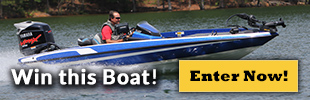
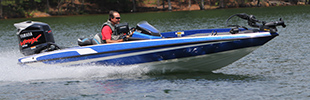
updates to like widget

Changed region(s): [[0.5516, 0.54, 0.9871, 0.96], [0.0, 0.63, 0.5226, 0.93]]

diff --git a/wp-content/plugins/imo-facebook-like-import/css/styles.css b/wp-content/plugins/imo-facebook-like-import/css/styles.css
@@ -1,33 +1,38 @@
 /* Like Leaderboard Styles
 *******************************************************************************/
-.widget_imo_like_leaderboard_widget ul.leaderboard-list {}
-.widget_imo_like_leaderboard_widget ul.leaderboard-list li {
-  height: 90px;
-  background: white;
-  padding: 10px 10px 20px;
-  border-bottom: 1px solid #eee;
-}
-.widget_imo_like_leaderboard_widget img.leaderboard-thumb {
-  height:70px;
-  width:70px;
-  vertical-align: middle;
-  float:right;
-  margin-right: 25px;
-}
-.widget_imo_like_leaderboard_widget .entry-title {
-  overflow: hidden;
-  white-space: nowrap;
-  text-overflow: ellipsis;
-  width: 180px;
-  float: left;
-  font-weight: bold;
-}
+.widget_imo_like_leaderboard_widget{border-top: 5px solid #CDA228;background: #1c1c1c;}
+.widget_imo_like_leaderboard_widget ul.leaderboard-list {margin-bottom: 15px;}
+.widget_imo_like_leaderboard_widget ul.leaderboard-list li {height: 90px;background: white;padding: 10px 10px 20px;border-bottom: 1px solid #eee;}
+.widget_imo_like_leaderboard_widget img.leaderboard-thumb {height:70px;width:70px;vertical-align: middle;float:right;margin-right: 25px;}
 .widget_imo_like_leaderboard_widget a.leaderboard-link {color: black;}
 .widget_imo_like_leaderboard_widget .like-count {color:#2A4185;padding: 7px 7px 7px 0;float: left;}
-.widget_imo_like_leaderboard_widget{border-top: 5px solid #CDA228;background: #1c1c1c;}
 .widget_imo_like_leaderboard_widget ul{padding: 0 10px;}
-.widget_imo_like_leaderboard_widget .banner{width: 310px;height: 100px;}
+.widget_imo_like_leaderboard_widget .banner{width: 310px;height: 100px;position: relative;}
+.widget_imo_like_leaderboard_widget .banner h3{color: white;position: absolute;bottom: 2px;left:50%;-moz-box-shadow: inset 0px 0px 1px rgba(160,170,184,1);-webkit-box-shadow: inset 0px 0px 1px rgba(160,170,184,1);}
 .widget_imo_like_leaderboard_widget h2{background:white;padding: 10px 10px 0;text-align: center;margin: 10px 10px 0;}
-.widget_imo_like_leaderboard_widget ul.leaderboard-list li.footer-link{height: auto;background: transparent;}
+.widget_imo_like_leaderboard_widget ul.leaderboard-list li.footer-link{height: 10px;background: transparent;color: white;border: none;text-align: center;}
+.widget_imo_like_leaderboard_widget ul.leaderboard-list li.footer-link a{color: white;font-size: 0.8em;text-decoration:underline;}
+.widget_imo_like_leaderboard_widget ul.leaderboard-list li.footer-link a:hover{text-decoration:none;}
 .widget_imo_like_leaderboard_widget .like-wrap{float: left;margin: 18px 2px 18px 16px;}
 .widget_imo_like_leaderboard_widget .fb-like{float: left;margin: 22px 25px;}
+.widget_imo_like_leaderboard_widget a.enter{
+	color:#222;
+	clear: both;
+	display: block;
+	text-align: center;
+	margin: 10px 0 0;
+	padding: 10px;
+	text-transform: uppercase;
+	font:16px "open_sansbold", Helvetica, Arial, sans-serif;
+	background-color: #cda220;
+	-moz-box-shadow: inset 0px 0px 1px rgba(160,170,184,1);
+	-webkit-box-shadow: inset 0px 0px 1px rgba(160,170,184,1);
+	box-shadow: inset 0px 0px 1px rgba(160,170,184,1);
+	background-image: -o-linear-gradient(90deg , rgb(252,202,52) 0%, rgb(205,162,32) 100%);
+	background-image: -moz-linear-gradient(90deg , rgb(252,202,52) 0%, rgb(205,162,32) 100%);
+	background-image: -webkit-linear-gradient(90deg , rgb(252,202,52) 0%, rgb(205,162,32) 100%);
+	background-image: -ms-linear-gradient(90deg , rgb(252,202,52) 0%, rgb(205,162,32) 100%);
+	background-image: linear-gradient(90deg , rgb(252,202,52) 0%, rgb(205,162,32) 100%);
+	text-shadow: rgba(255,255,255,0.5) 0px 1px 0px;
+}
+.widget_imo_like_leaderboard_widget a.enter:hover{color: #444;}

diff --git a/wp-content/plugins/imo-facebook-like-import/widget.php b/wp-content/plugins/imo-facebook-like-import/widget.php
@@ -23,9 +23,11 @@ class imo_like_leaderboard_widget extends WP_Widget {
 							  js.src = "//connect.facebook.net/en_US/all.js#xfbml=1";
 							  fjs.parentNode.insertBefore(js, fjs);
 							}(document, 'script', 'facebook-jssdk'));</script>
-			  				<div class="banner"><img src="<?php echo "$banner"; ?>" alt="<?php echo "$title"; ?>" title="<?php echo "$title"; ?>" /></div>
+			  				<div class="banner">
+			  					<img src="<?php echo "$banner"; ?>" alt="<?php echo "$title"; ?>" title="<?php echo "$title"; ?>" />
+			  					 <h3><?php echo "$message"; ?></h3>
+			  				</div>
                             <h2><?php echo "$title"; ?></h2>
-                            <h3><?php echo "$message"; ?></h3>
 							<ul class="leaderboard-list">
                                 <?php
 
@@ -34,7 +36,7 @@ class imo_like_leaderboard_widget extends WP_Widget {
                                     $sql = "SELECT *,CONVERT(likes.meta_value, UNSIGNED INTEGER) as like_count FROM wp_14_posts as posts
                                             JOIN wp_14_postmeta AS likes ON (posts.ID = likes.post_id AND likes.meta_key = 'facebook_like_count')
                                             WHERE post_type = 'reader_photos'
-                                            ORDER BY like_count DESC LIMIT 5";
+                                            ORDER BY like_count DESC LIMIT 3";
 
                                     $posts = $wpdb->get_results($sql);
 
@@ -52,16 +54,13 @@ class imo_like_leaderboard_widget extends WP_Widget {
 	                                           
 	                                            
                                               </li>";
-                                              //<div class='entry-title'>{$post->post_title}</div>
-
                                     }
 
 
                                 ?>
-
-                                <li class="footer-link"><a href="">See All Top 25</a></li>
-                                <li class="footer-link"><a href="">Rules</a></li>
+                                <li class="footer-link"><a href="">See All Top 25</a> | <a href="/game-fish-camera-corner-fishing-giveaway">Rules</a></li>
 							</ul>
+							<a class="enter" href="/photos/add-new-photo">Submit yours now</a>
               <?php echo $after_widget; ?>
         <?php
     }
